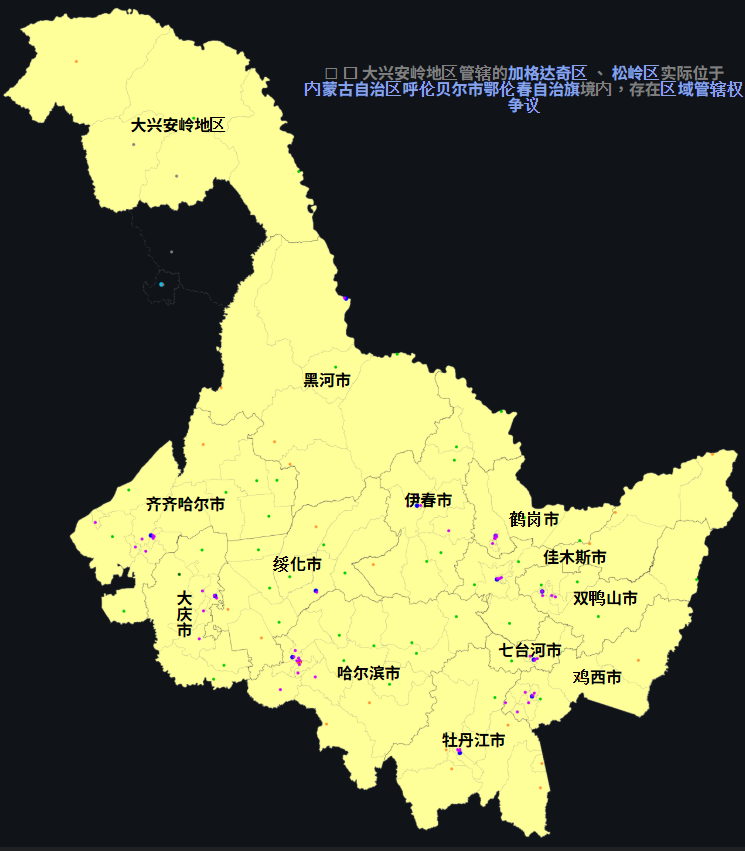
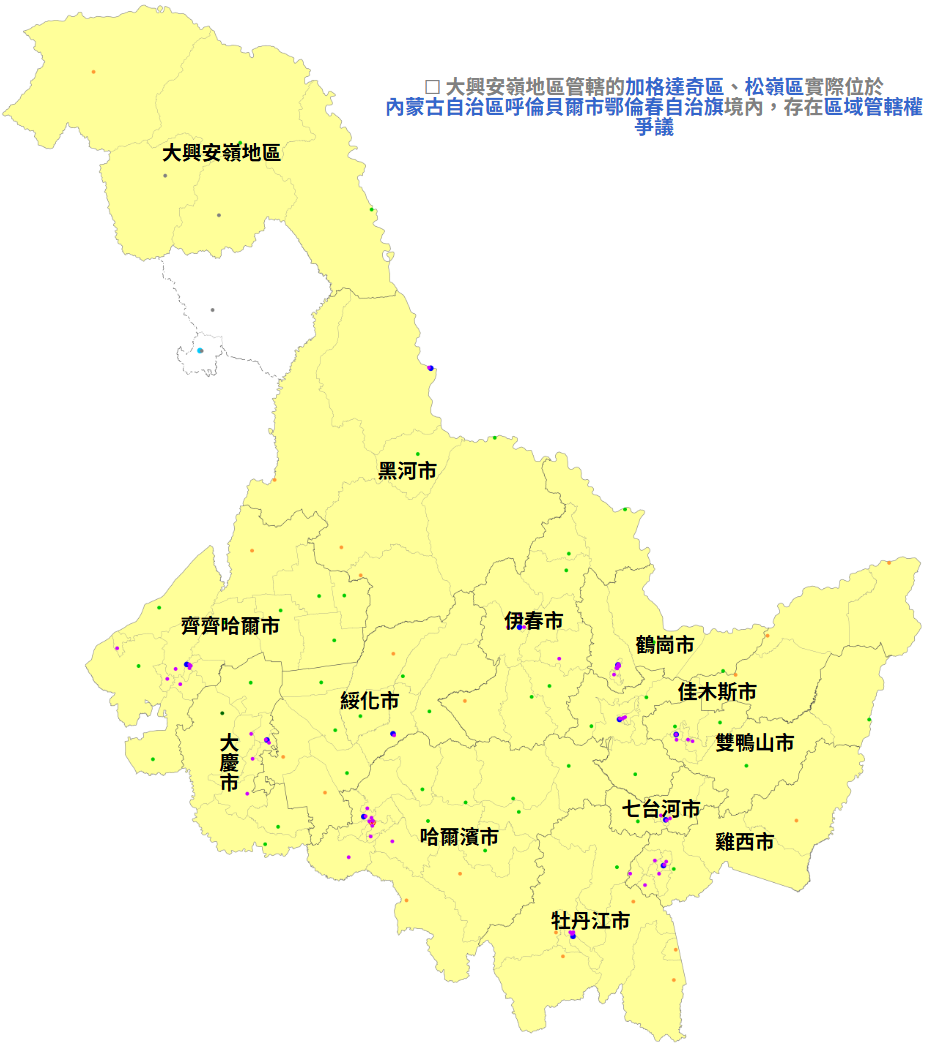
update wechat/327.md

diff --git a/wechat/327.md b/wechat/327.md
@@ -28,7 +28,7 @@
 
 时间上夹着一件事：1689 年，清朝和俄国签了《尼布楚条约》。条约前后，清廷在黑龙江一线接连筑城、设驿站、派兵驻防。这几座城的身份很清楚，是军城：先有将军衙门和驻防兵，后有市面。
 
-326 期写过齐齐哈尔这座木城，这里不重复。说一下黑河。
+326 期 https://mp.weixin.qq.com/s/LKLotO22kp9gZosu_Wkmjg 写过齐齐哈尔这座木城，这里不重复。说一下黑河。
 
 今天的黑河市，可以看成瑷珲的接班人。1900 年庚子之变，俄军越江，瑷珲城被焚。之后对岸布拉戈维申斯克对面的黑河镇起来了，1909 年设黑河府。瑷珲这个名字后来留成了县名、区名，城的位置交给了黑河。所以黑河的成形年份要写“1900 年后”：它继承的是一座 1683 年的军城，但本身是 20 世纪的口岸城。
 
@@ -114,11 +114,19 @@
 
 另一座是金朝的上京会宁府，在今天哈尔滨阿城区。1153 年海陵王把都城迁到燕京，就是今天的北京。1157 年，他下令毁掉上京的宫殿、宗庙，把城址铲平改成耕地。后来金世宗部分重建过，但都城的地位没有回来。
 
-两座城的断法一样：不是自己衰落的，是政权下令迁人、毁城。人口被抽走以后，这片地方长时间没有能撑起大城的人口基数，再到清朝封禁一压，就一直空到了 19 世纪。
+两座城的断法一样：不是自己衰落的，是政权下令迁人、毁城。至于后来为什么一直没有重新长起来，没查到可靠的说法。
 
 ────────────────────
 
 所以今天黑龙江地级市的名单里，没有一座能把城史接到渤海或者金。上京龙泉府和金上京都成了遗址，旁边的牡丹江和哈尔滨，是一千年后靠铁路另起的炉灶。
+
+金朝在这一带留下的东西，除了遗址，还有一道墙。昨天在齐齐哈尔碾子山区，去看了金长城遗址公园。
+
+金长城的正式名称叫金界壕：先挖壕，再用挖出来的土筑墙，墙外加马面，沿线设边堡。从金太宗时开始修，到章宗时大体完成，前后七十多年，防的是草原上的蒙古和塔塔儿。国家文物局认定的全长约 3989 公里，八成多在内蒙古。碾子山这一段不到 10 公里，2001 年列为全国重点文物保护单位。
+
+公园 2008 年建成开放过，这几年在改成“国家文化公园”，没开门。门口立着一座 14.5 米高的雕像，是婆卢火，金朝宗室，1121 年带一万多户人到泰州一带屯田守边。当地叫他“金长城第一修筑者”，《金史》本传里只写了屯田守边。旁边一道围起来的土坡，就是界壕。
+
+这道土坡正好压在黑龙江和内蒙古的边界上。对面是扎兰屯市的成吉思汗镇，镇名来自一百多年前中东铁路在这儿设的“成吉思汗站”，当地人也把金界壕叫作“成吉思汗边壕”。金朝修来防蒙古人的墙，最后挂在了成吉思汗名下。
 
 ━━━━━━━━━━━━━━━━━━━━
 
@@ -128,19 +136,21 @@
 
 13 个地级行政区中心城市，按成形年份排：
 
-齐齐哈尔｜1691｜清代军城，1699 黑龙江将军移驻
-绥化｜1862｜放荒招垦，1885 设绥化厅
-佳木斯｜1888｜设东兴镇，松花江江港
-哈尔滨｜1898｜中东铁路工程局落脚，T 字交叉点
-黑河｜1900 后｜接替被焚的瑷珲，对俄口岸
-牡丹江｜1901 到 1903｜中东铁路东段车站，原名黄花甸子
-鹤岗｜1914 到 1918｜煤矿
-鸡西｜1930 年代｜滴道煤矿
-双鸭山｜1947｜煤矿，矿务局得名
-伊春｜约 1952｜林区开发
-七台河｜1958｜煤田开发
-大庆｜1959｜松基三井出油
-加格达奇｜1964｜林区会战，地属内蒙古、归黑龙江管
+| 城市 | 成形年份 | 怎么来的 |
+|---|---|---|
+| 齐齐哈尔 | 1691 | 清代军城，1699 黑龙江将军移驻 |
+| 绥化 | 1862 | 放荒招垦，1885 设绥化厅 |
+| 佳木斯 | 1888 | 设东兴镇，松花江江港 |
+| 哈尔滨 | 1898 | 中东铁路工程局落脚，T 字交叉点 |
+| 黑河 | 1900 后 | 接替被焚的瑷珲，对俄口岸 |
+| 牡丹江 | 1901 到 1903 | 中东铁路东段车站，原名黄花甸子 |
+| 鹤岗 | 1914 到 1918 | 煤矿 |
+| 鸡西 | 1930 年代 | 滴道煤矿 |
+| 双鸭山 | 1947 | 煤矿，矿务局得名 |
+| 伊春 | 约 1952 | 林区开发 |
+| 七台河 | 1958 | 煤田开发 |
+| 大庆 | 1959 | 松基三井出油 |
+| 加格达奇 | 1964 | 林区会战，地属内蒙古、归黑龙江管 |
 
 清前期 1 座，开禁和铁路时期 4 座，接班的黑河 1 座，剩下 7 座全是煤、木头、石油长出来的资源城。
 

diff --git a/wechat/assets/327/金长城调研.md b/wechat/assets/327/金长城调研.md
@@ -1,0 +1,9 @@
+# 碾子山金长城（10-02 子代理调研）
+
+- 金界壕：外壕+主墙+内壕+副墙，墙外马面，沿线边堡；主墙高约 5–6 米、壕宽 30–60 米。太宗天会（1123–1134）始，世宗大定（1161 起）一期，章宗明昌到承安（约 1190–1200）大体完成。防塔塔儿、蒙古各部。国家文物局认定 3989.25 公里（常见说法 4500 余），内蒙古约 83%；东北起莫力达瓦旗七家子，西南到武川上庙沟。2001 第五批国保。（zh.wikipedia 金界壕）
+- 碾子山段：9.772 公里；当地称“保存最完整、最壮观”（宣传口径）；58 马面、局部三墙三壕（当地资料）；2020 首批国家级长城重要点段。（新华社 2023-12：finance.sina.cn/2023-12-09/detail-imzxmnhr6066142.d.html）
+- 遗址公园：2008-06-28 落成开放，4 万平方米，婆卢火广场+本体+烽燧；2023 新华社称国家文化公园配套主体完工、博物馆和步道推进中。关闭/改造时间未核。（nzs.gov.cn）
+- 婆卢火：金宗室，安帝五世孙；天辅五年（1121）率万余户到泰州屯田任都统；天眷元年卒，谥刚毅（《金史》卷 71）。雕像 14.5 米，刻“金东北路泰州都统婆卢火”。“金长城第一修筑者”是当地说法，《金史》本传只写屯田守边。
+- 成吉思汗镇：扎兰屯市，市区南约 28 公里；名字来自约 1903 年中东铁路“成吉思汗站”，另有民间把金界壕叫“成吉思汗边壕”。屯兵传说无史料。
+- 碾子山区：山石宜做碾子磨盘得名；原华安区（1960/1961），1983-12 改名；2020 年 5.66 万人。距市区未核。
+- 泰来塔子城：辽泰州治所，金元沿用，2006 国保，辽大安七年（1091）石刻。金泰州后来迁治未核。
